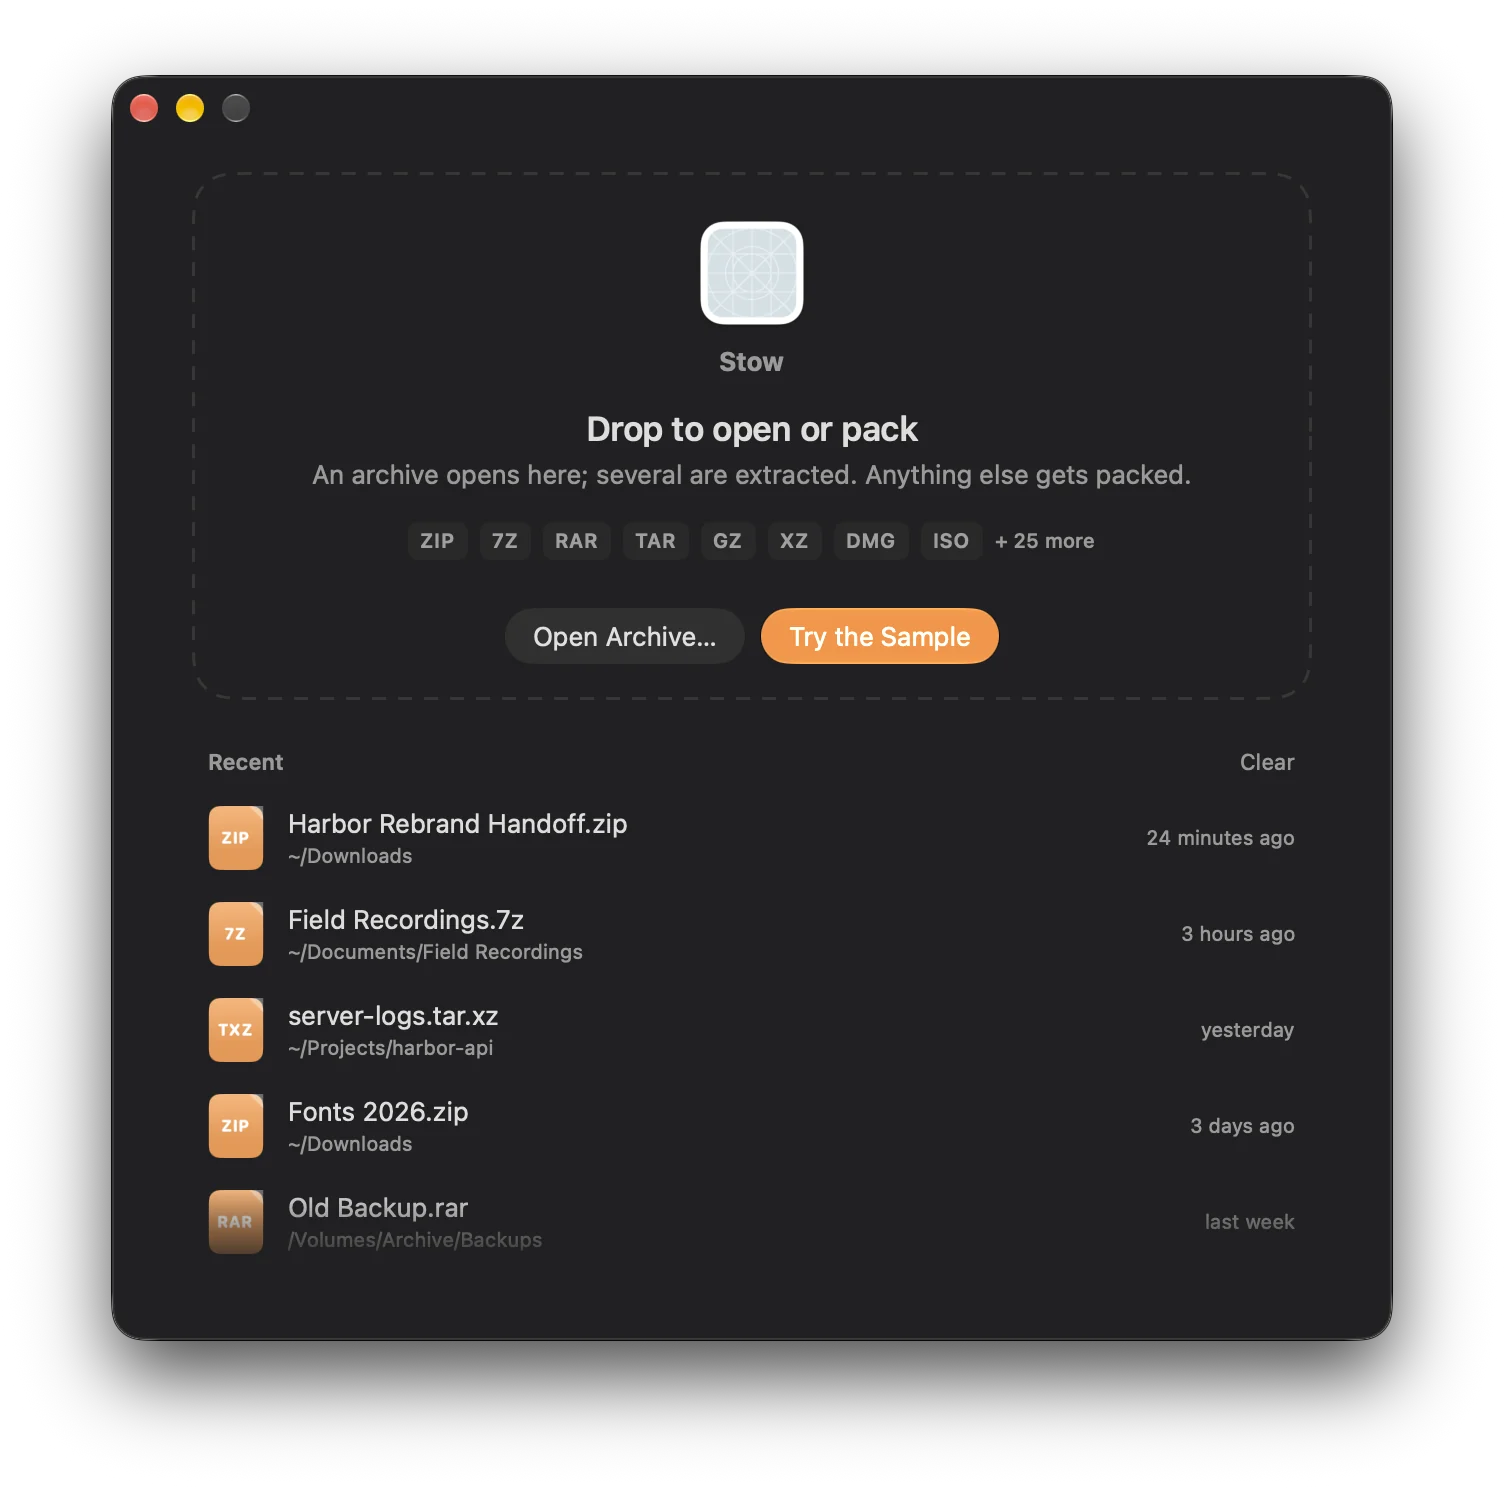
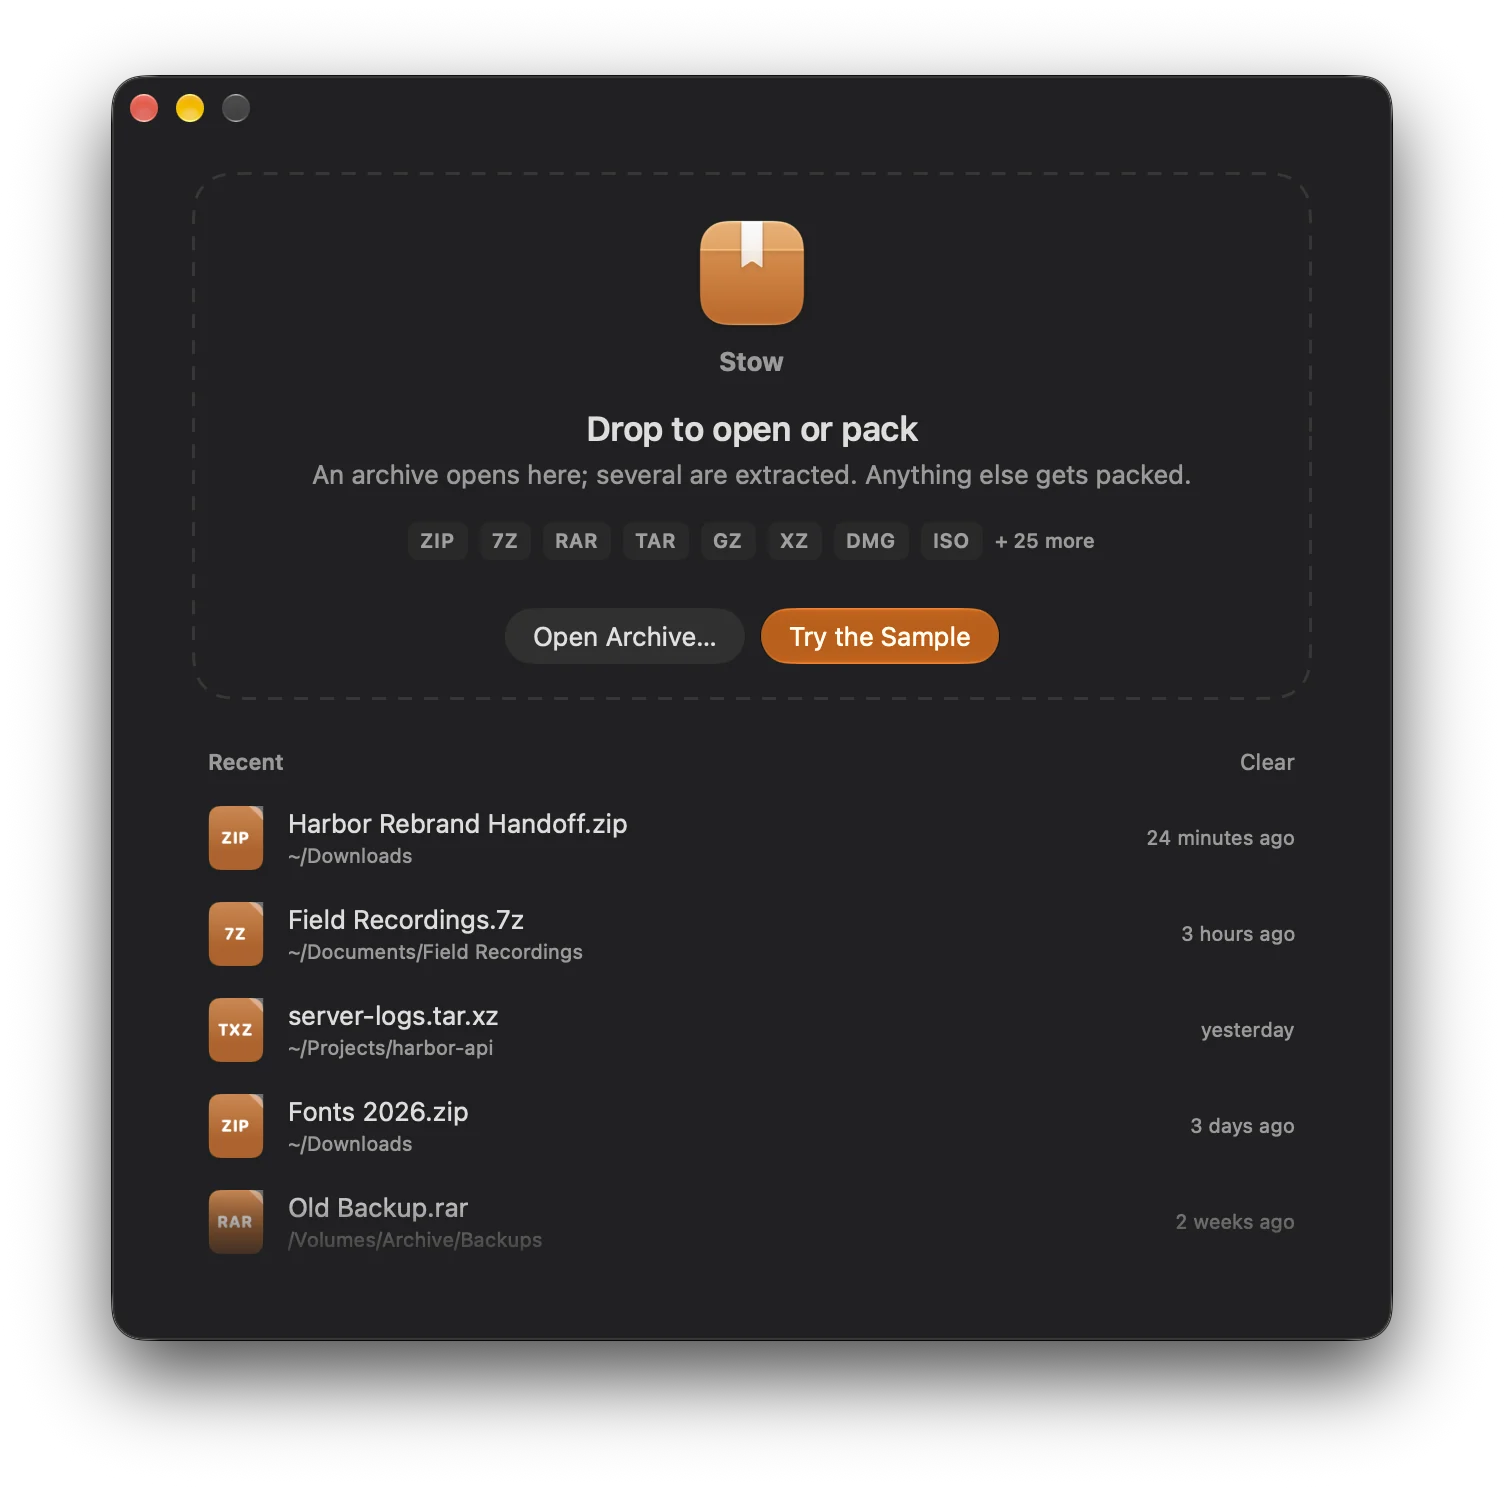
Design: retake website shots on current main (#69)
Retakes every website screenshot and walkthrough frame in light and dark on
current main. They now show the dark-mode accent #B85E1C with white words
(#260), Glance's single Extract for a selection (#248/#251), the deeper
Actions stack and the real app icon on the welcome window. 26 of 34 images
changed; the other 8 came out byte-identical.

Snapshot tooling only, needed for a correct capture after #266 (the welcome
window now opens after a scene's own windows):
- website-shots.sh picks the Tray as `panel` and Quick Look as `window`
  (they were the second windows before).
- DemoScene gives the Tray panel the keyboard back before capturing, so
  Pack Selected keeps its accent instead of the inactive grey.

No page copy changed: every caption and alt text still matches its shot.

diff --git a/App/DemoScene.swift b/App/DemoScene.swift
@@ -685,6 +685,9 @@ enum DemoScene {
                         try? await Task.sleep(for: .milliseconds(200))
                     }
                     if !NSApp.isActive { FileHandle.standardError.write(Data("snapshot: Stow isn’t the active app\n".utf8)) }
+                    // The welcome window opens after launch (#266) and takes the keyboard; give it back
+                    // to the Tray, as it has when someone uses it, so Pack keeps its colour.
+                    if scene.hasPrefix("tray") { trayPanel?.makeKey() }
                     try? await Task.sleep(for: .milliseconds(300))
                 }
                 // Glance snapshots are named by the edge they opened at, so each edge keeps its own file.
